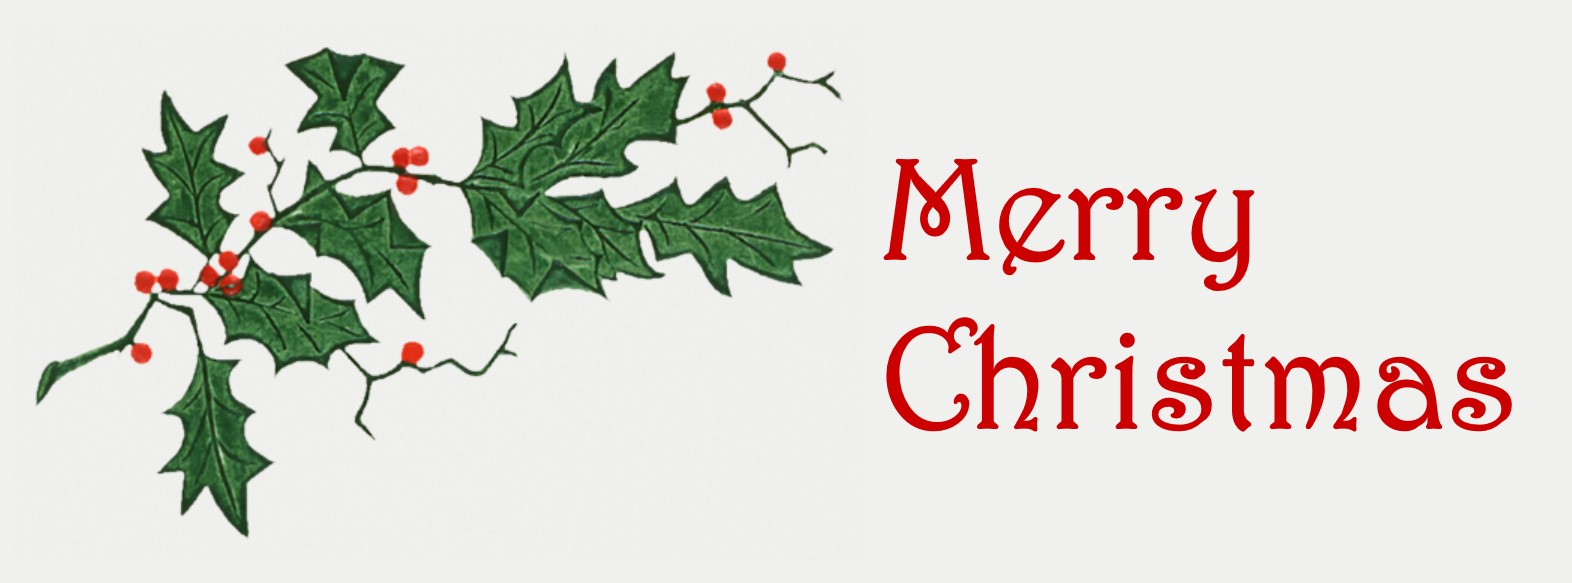
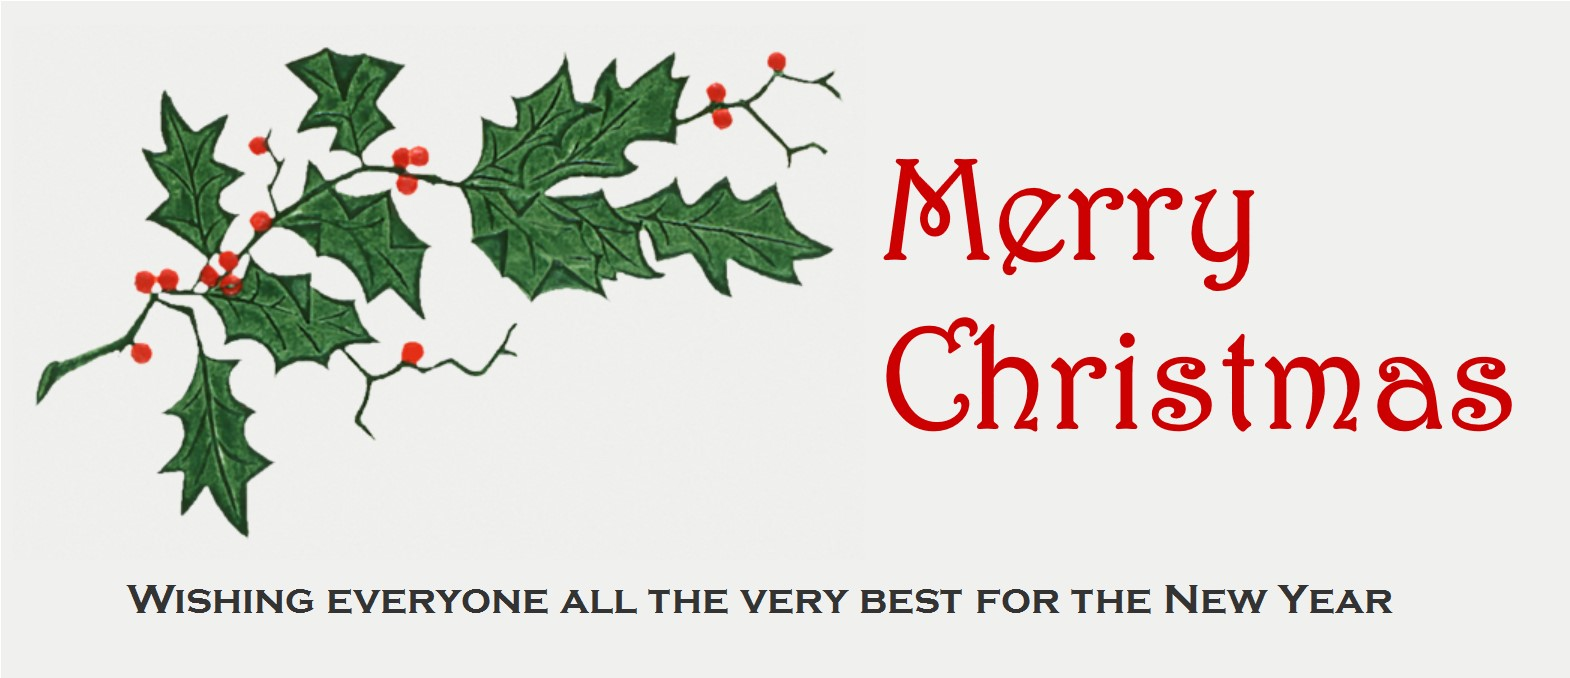
More text in image

diff --git a/2024/index.html b/2024/index.html
@@ -4,7 +4,7 @@
 	<meta charset="utf-8">
 	<meta name="viewport" content="width=device-width, initial-scale=1, user-scalable=yes">
 	<meta name="color-scheme" content="light dark">
-	<title>Starter email components</title>
+	<title>Merry Christmas from Chrystal</title>
 	<!--[if mso]>
 	<noscript>
 		<xml>
@@ -116,7 +116,7 @@
 				<div class="column" style="text-align: center;">
 					<img src="https://gilgongo.github.io/xmas/2024/xmas-24.jpg" width="600" height="auto" alt="" style="display: block; border-radius: 10px; width: 100%; height: auto;" data-be-img-upload-id="ls0daizu3">
 					<div style="width: 100%; height: 20px;"><p style="float: left; margin: 0; margin-bottom: 20px; width: 100%; line-height: 0;">&nbsp;</p></div>
-					<h1 style="margin: 0; margin-bottom: 10px; font-size: 32px; line-height: 40px; color: #444444; text-align: center; font-weight: 600;"><i>Wishing everyone all the very best for the New Year</i></h1>
+					<!-- h1 style="margin: 0; margin-bottom: 10px; font-size: 32px; line-height: 40px; color: #444444; text-align: center; font-weight: 600;"><i>Wishing everyone all the very best for the New Year</i></h1 -->
 					<div style="width: 100%; height: 20px; display: block;">
 						<p style="float: left; margin: 0; margin-bottom: 20px; width: 100%; line-height: 0;">&nbsp;</p>
 					</div><p style="margin: 0; font-family: Helvetica Neue, Helvetica, Arial, sans-serif; text-align: center;">And to thank all Merrick's many friends who came to his funeral in March 2023, and his Memorial Service on St Paul's Cathedral in May this year.</p>
